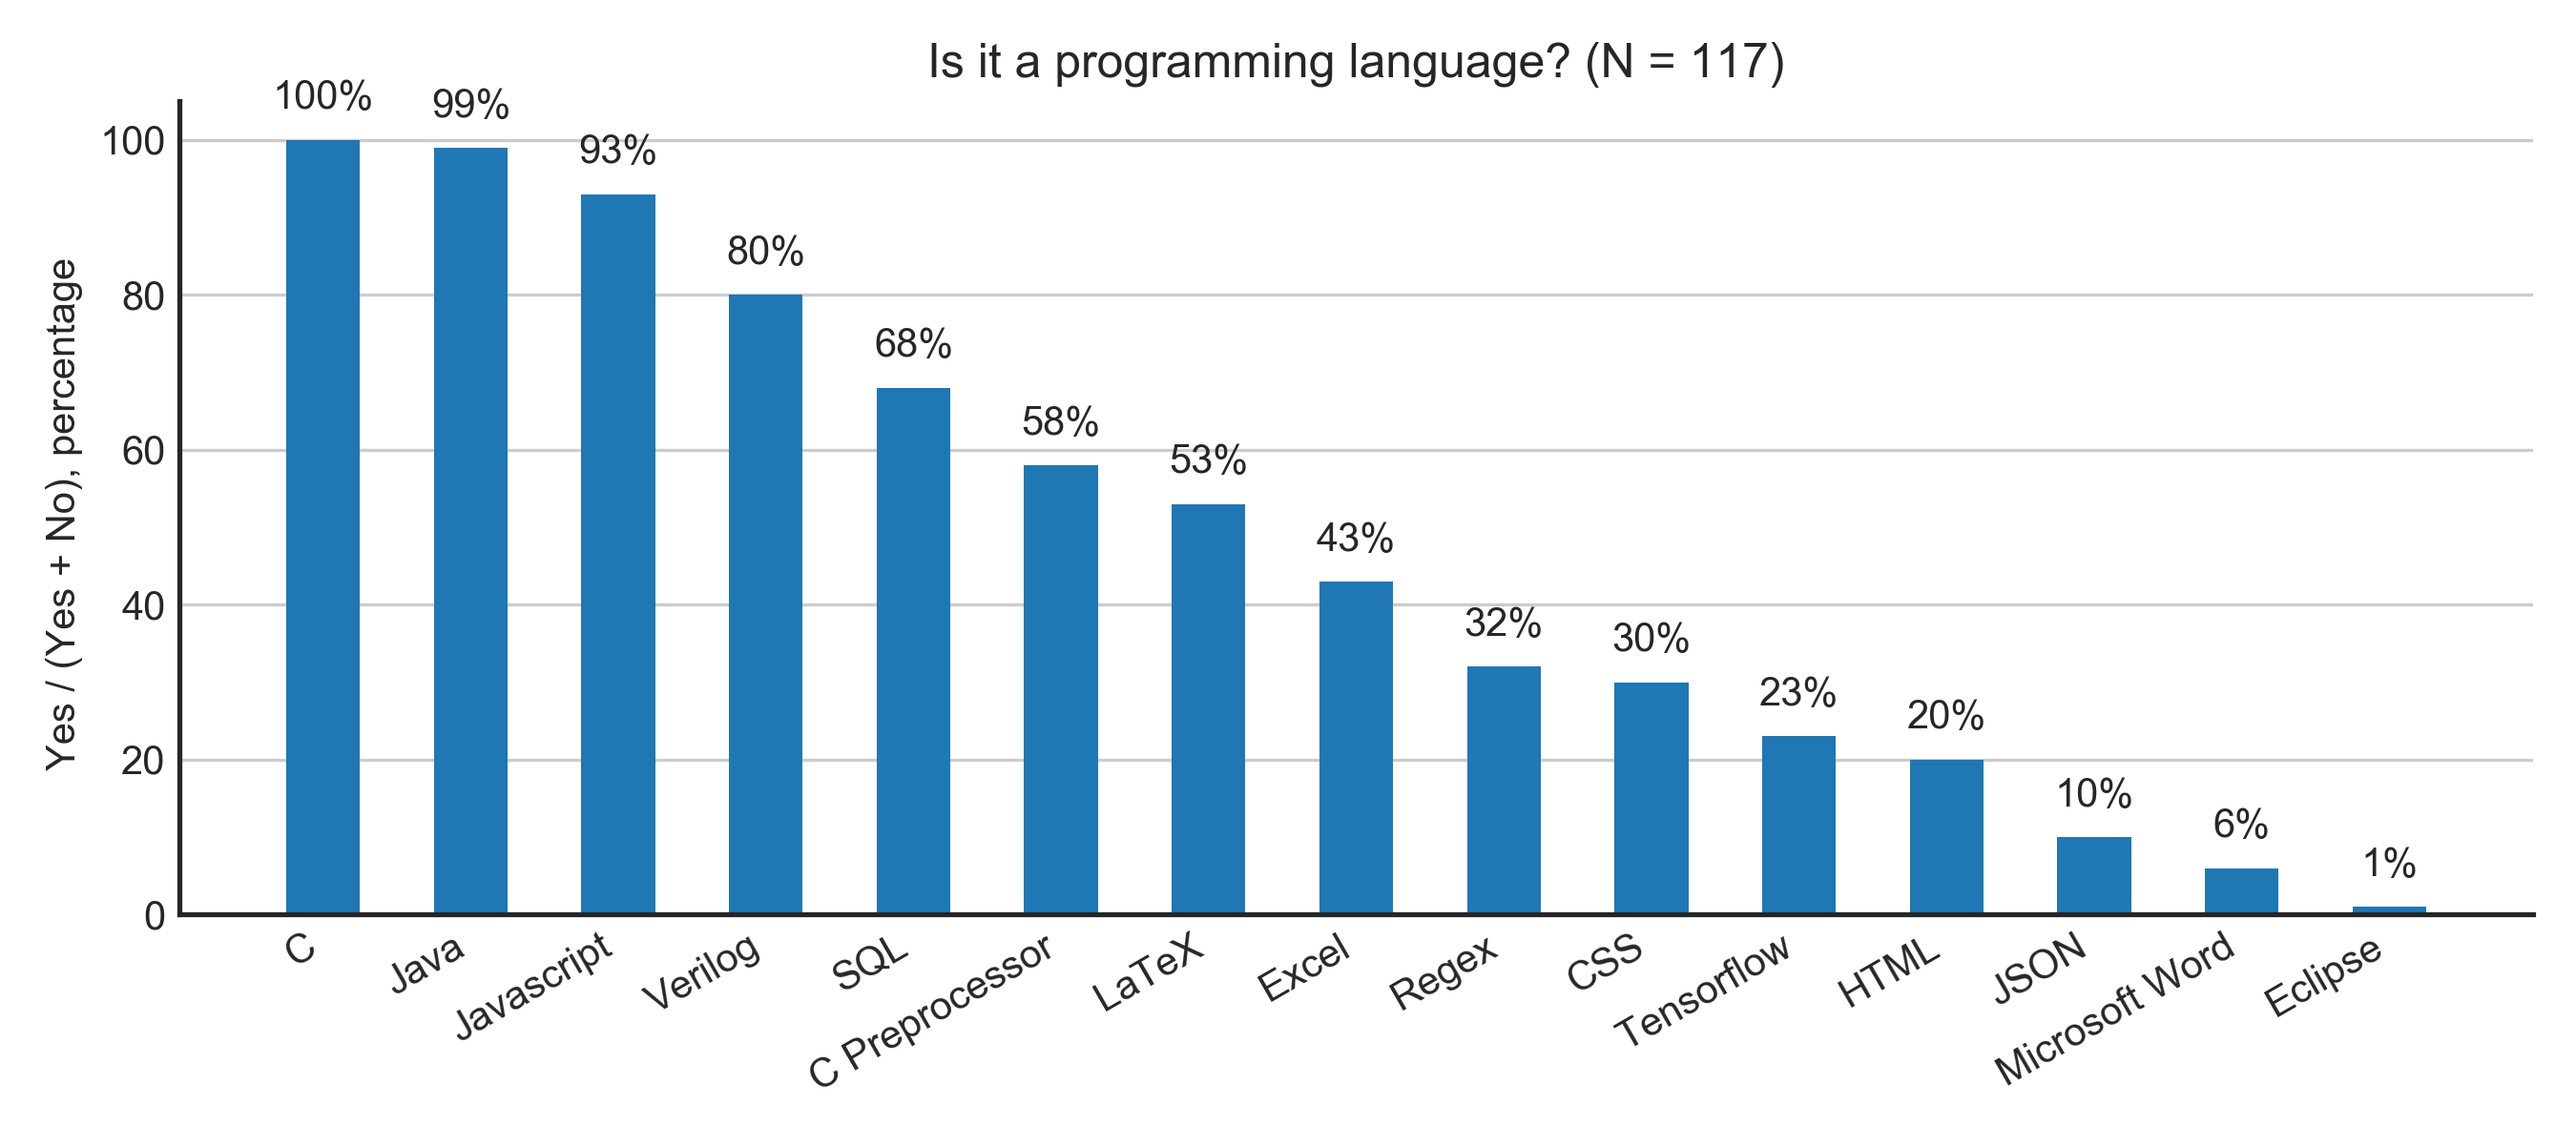
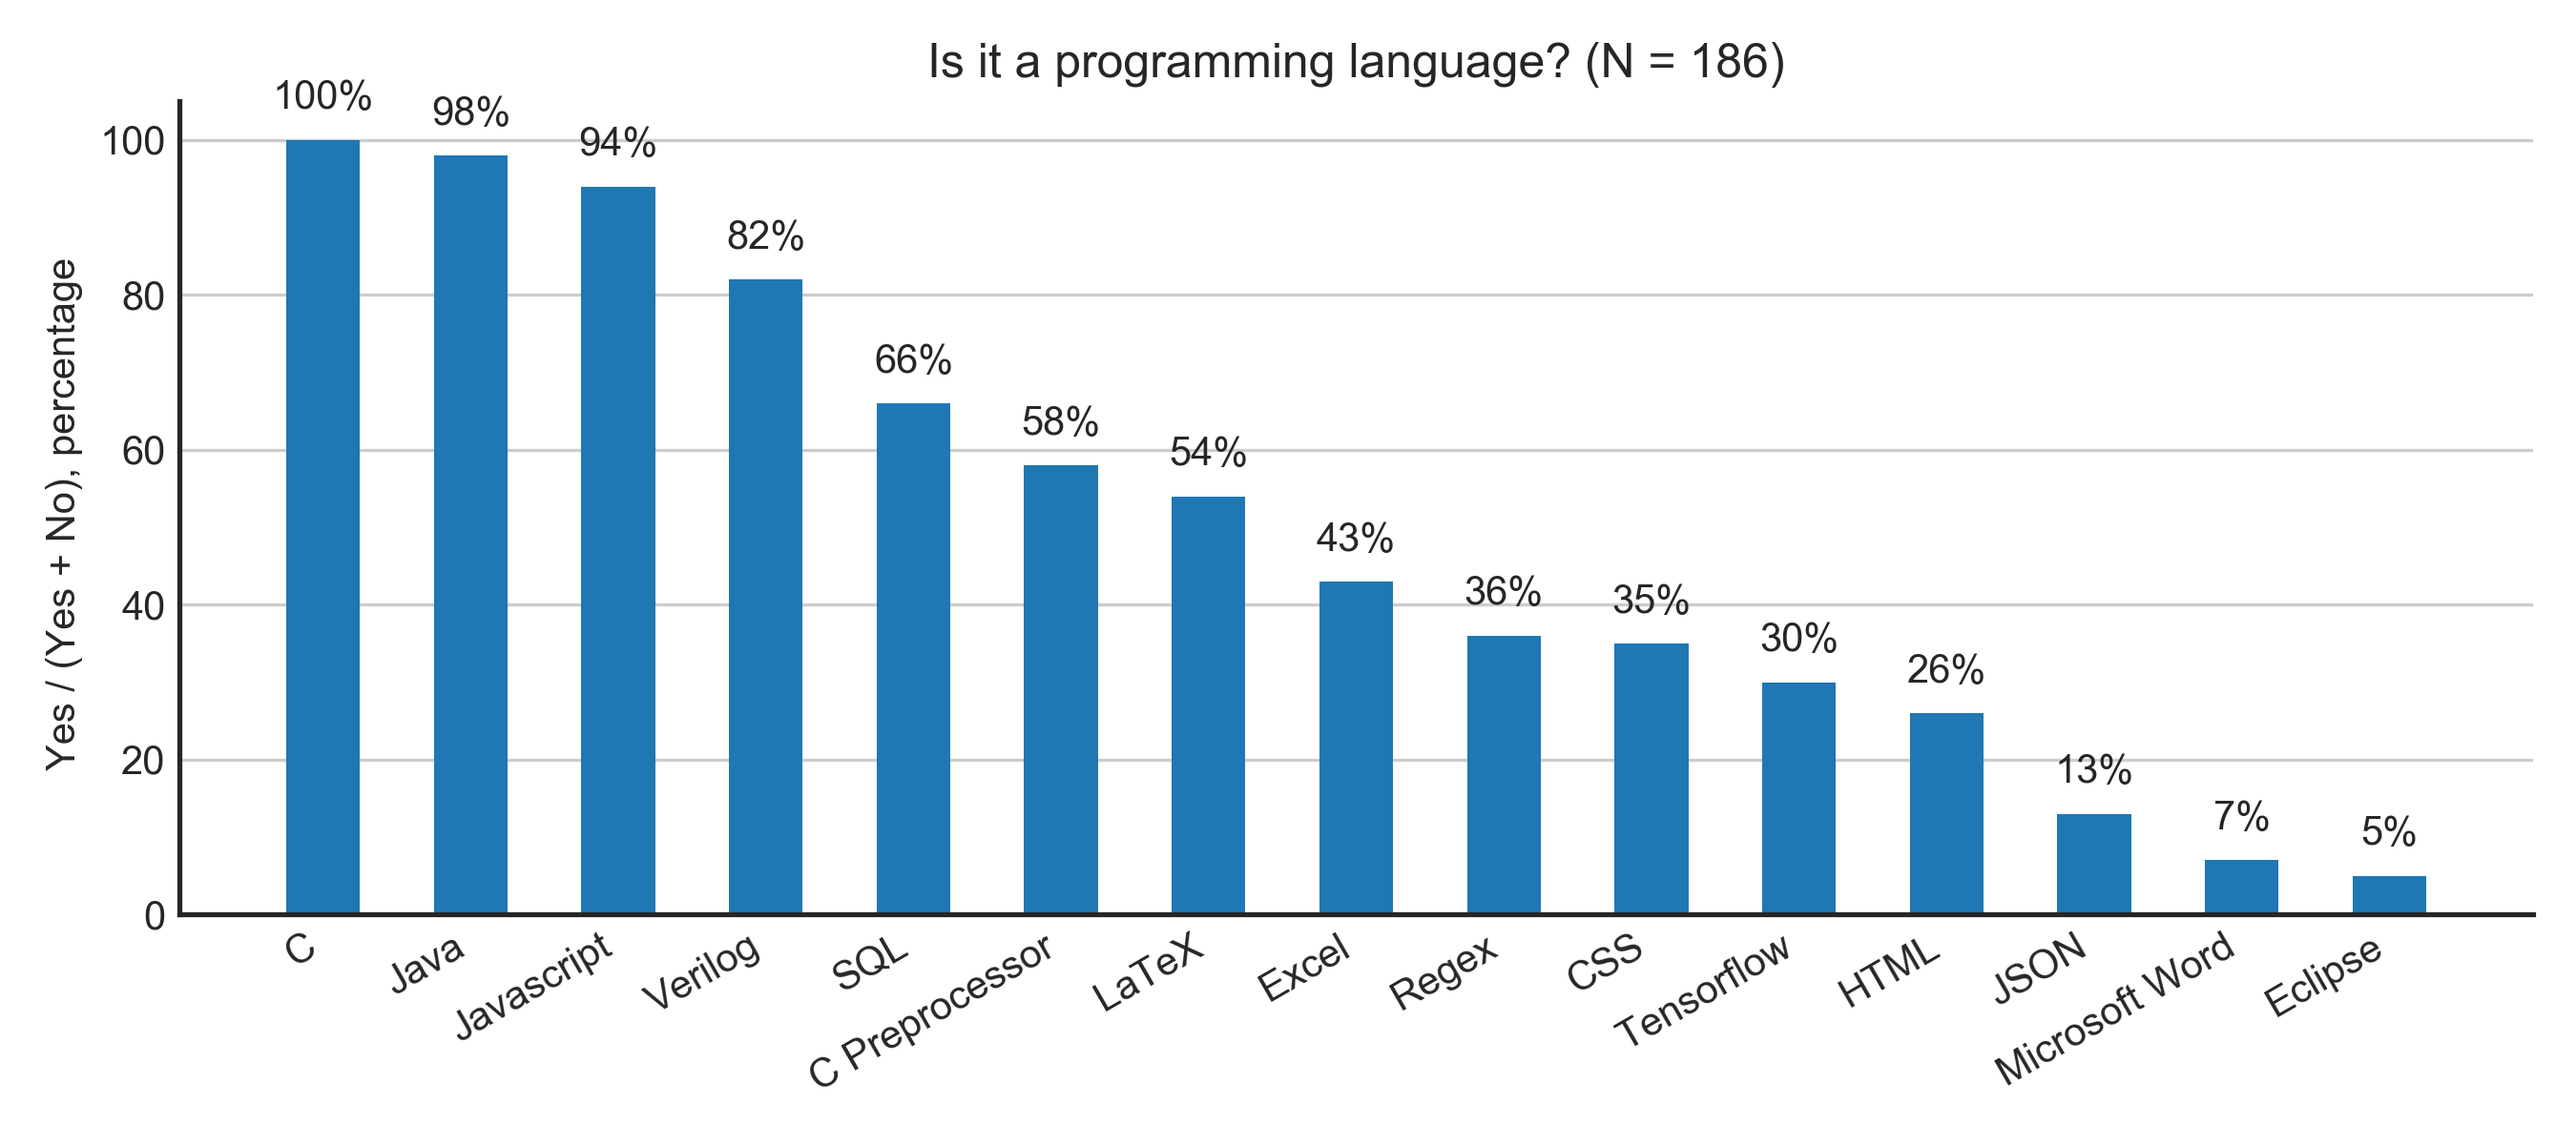
Travis #40

diff --git a/notes/what-is-a-pl-survey/index.html b/notes/what-is-a-pl-survey/index.html
@@ -46,7 +46,7 @@
 
 <p><img src="/images/assets/what-is-a-pl.png" alt="" /></p>
 
-<p>The above graph was generated from <a href="https://docs.google.com/forms/d/e/1FAIpQLSeH6Y1dcEBGAoLo5hUkQ5kSOMiFUnuicYfAwZJpGKjrZmxoWQ/viewform">this survey</a> (as of 1/25/18), where I asked readers “Yes/No/Abstain” to whether a number of tools should be considered programming languages. The values graphed are the percentage of people who think that the tool is a programming language (excluding “Abstain” results). The respondents largely consist of readers from Hacker News and Reddit. I will continue to update the graph as more readers respond to the survey.</p>
+<p>The above graph was generated from <a href="https://docs.google.com/forms/d/e/1FAIpQLSeH6Y1dcEBGAoLo5hUkQ5kSOMiFUnuicYfAwZJpGKjrZmxoWQ/viewform">this survey</a> (as of 2/21/18), where I asked readers “Yes/No/Abstain” to whether a number of tools should be considered programming languages. The values graphed are the percentage of people who think that the tool is a programming language (excluding “Abstain” results). The respondents largely consist of readers from Hacker News and Reddit. I will continue to update the graph as more readers respond to the survey.</p>
 
 <p>As expected, a vast majority of respondents agree on the traditional PLs: C, Java, and Javascript. Past that, the results get more interesting!</p>
 <ul>
